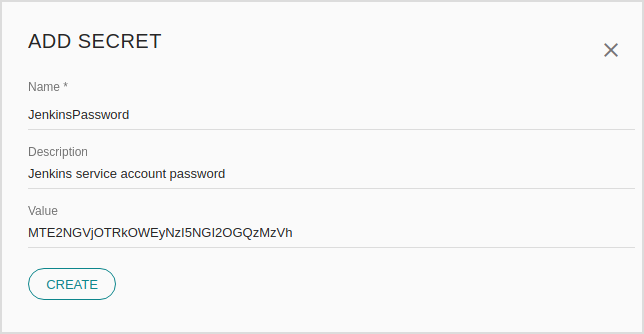
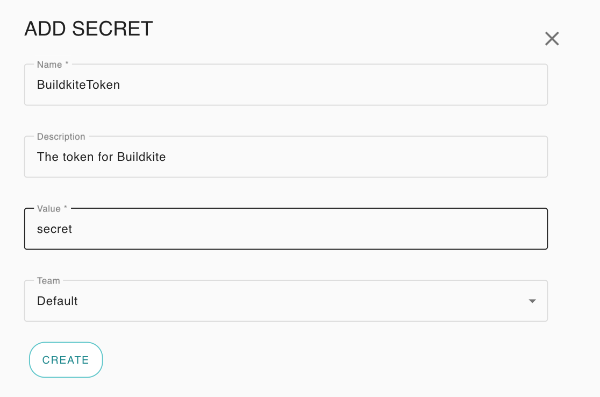
chore: add information about secret and team webhooks

diff --git a/website/docs/docs/user-interface/settings/webhooks.md b/website/docs/docs/user-interface/settings/webhooks.md
@@ -6,6 +6,7 @@ Here you will be able to create and edit your webhooks.
 
 | Field | Description |
 | ----- | ----------- |
+| Team |  When creating or editing a webhook, users with the `webhook:manage:team` permission (by default, assigned to the `Test Maintainer` role) must assign a webhook to a team. Users with the `webhook:manage:*` permission (by default, assigned to the `Administrator` role) may choose not to assign a webhook to any team. Team selection affects which secrets are available for use in the webhook. See the [Secrets](#secrets) section below. |
 | Description | A description of your webhook |
 | Consumer | You can select a specific consumer for the webhook, or `ALL` for all consumers.  |
 | Provider | You can select a specific provider for the webhook, or `ALL` for all providers. |
@@ -38,18 +39,31 @@ This event fires every time a provider verification is published.
 
 #### Dynamic Variables
 
-The following variables may be used in the path of the URL, the query parameters and body, and will be replaced with their appropriate values at runtime.
+##### Secrets
+
+User defined secrets that have the same team assigned as the webhook may be used in the path of the URL, the headers, body, username and password, and will be replaced with their appropriate values at runtime. For webhooks that have no team assigned, only secrets that also have no team assigned may be used. The list of secrets that are available for use in a particular webhook are shown in the `Dynamic variables` section (click on the heading to display the values).
+
+To use a secret in a webhook, use the expression `${user.<SECRET_NAME>}` eg. ``${user.ciToken}``. 
+
+##### Pactflow
+
+The following variables may be used in the path and query parameters of the URL, the headers, body, username and password, and will be replaced with their appropriate values at runtime.
 
 | Expression | Description |
 | ---------- | ----------- |
-| ${pactbroker.consumerName} | The consumer name |
-| ${pactbroker.providerName} | The provider name |
-| ${pactbroker.pactUrl} | The URL to the newly published or most recently verified pact |
-| ${pactbroker.verificationResultUrl} | The URL to the relevant verification result |
-| ${pactbroker.githubVerificationStatus} | The verification status using the correct keywords for posting to the the Github commit status API |
-| ${pactbroker.consumerVersionNumber} | The version number of the most recent consumer version associated with the pact content |
-| ${pactbroker.providerVersionNumber} | The provider version number for the verification result |
-| ${pactbroker.consumerVersionTags} | The list of tag names for the most recent consumer version associated with the pact content, separated by ", " |
-| ${pactbroker.providerVersionTags} | The list of tag names for the provider version associated with the verification result, separated by ", " |
-| ${pactbroker.consumerLabels} | The list of labels for the consumer associated with the pact content, separated by ", " |
-| ${pactbroker.providerLabels} | The list of labels for the provider associated with the pact content, separated by ", " |
+| `${pactbroker.consumerName}` | The consumer name |
+| `${pactbroker.providerName}` | The provider name |
+| `${pactbroker.consumerVersionNumber}` | The version number of the most recent consumer version associated with the pact content. |
+| `${pactbroker.providerVersionNumber}` | The provider version number for the verification result |
+| `${pactbroker.providerVersionTags}` | The list of tag names for the provider version associated with the verification result, separated by ", ". |
+| `${pactbroker.providerVersionBranch}` | The repository branch associated with the provider version |
+| `${pactbroker.consumerVersionTags}` | The list of tag names for the most recent consumer version associated with the pact content, separated by ", " |
+| `${pactbroker.consumerVersionBranch}` | The repository branch associated with the consumer version |
+| `${pactbroker.pactUrl}` | The "permalink" URL to the newly published pact (the URL specifying the consumer version URL, rather than the "/latest" format. |
+| `${pactbroker.verificationResultUrl}` | The URL to the relevant verification result. |
+| `${pactbroker.githubVerificationStatus}` | The verification status using the correct keywords for posting to the Github commit status API. See https://developer.github.com/v3/repos/statuses. |
+| `${pactbroker.bitbucketVerificationStatus}` | The verification status using the correct keywords for posting to the Bitbucket commit status API. See https://developer.atlassian.com/server/bitbucket/how-tos/updating-build-status-for-commits/. |
+| `${pactbroker.consumerLabels}` | The list of labels for the consumer associated with the pact content, separated by ", ". |
+| `${pactbroker.providerLabels}` | The list of labels for the provider associated with the pact content, separated by ", ". |
+| `${pactbroker.eventName}` | The name of the event that triggered the webhook |
+| `${pactbroker.currentlyDeployedProviderVersionNumber}` | The version number of the currently deployed provider version (when used in a template, the webhook will be triggered once for each currently deployed provider version) |

diff --git a/website/docs/docs/user-interface/settings/secrets.md b/website/docs/docs/user-interface/settings/secrets.md
@@ -18,6 +18,7 @@ You can create your own variables to store sensitive values like usernames and p
 
 | Field | Description |
 | ---------- | ----------- |
+| Team | When creating or updating a secret, users with the `secret:manage:team` permission (by default, assigned to the `Test Maintainer` role) must assign a secret to a team. Team secrets may only be used in webhooks that are assigned to the same team. Users with the `secret:manage:*` permission (by default, assigned to the `Administrator` role) may choose not to assign a secret to any team. Secrets without a team assigned may only be used in webhooks that also have no team assigned. |
 | Name | Give a name to your secret. This will be available as a dynamic variable prefixed with `user.`. For instance, if you create a `JenkinsUser` secret you can access it as `${user.JenkinsUser}`. |
 | Description | Describe what your secret is here. |
 | Value | The value you need encrypted. |
